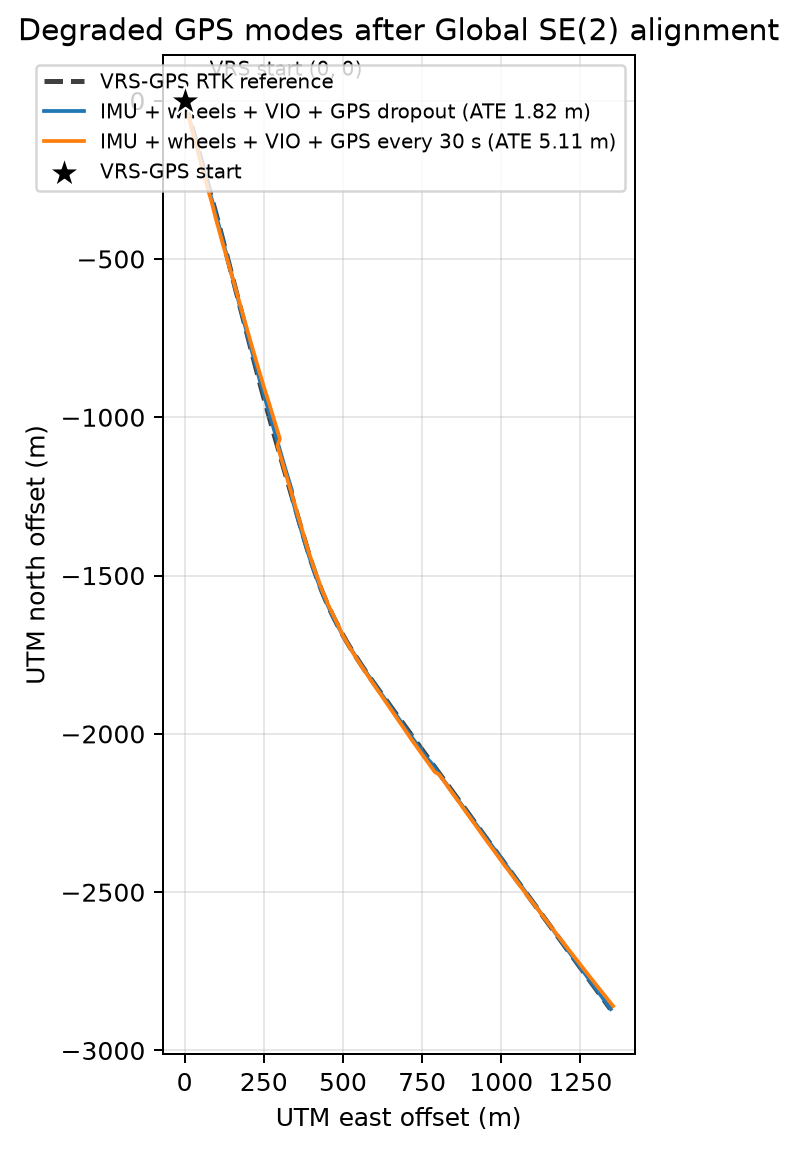
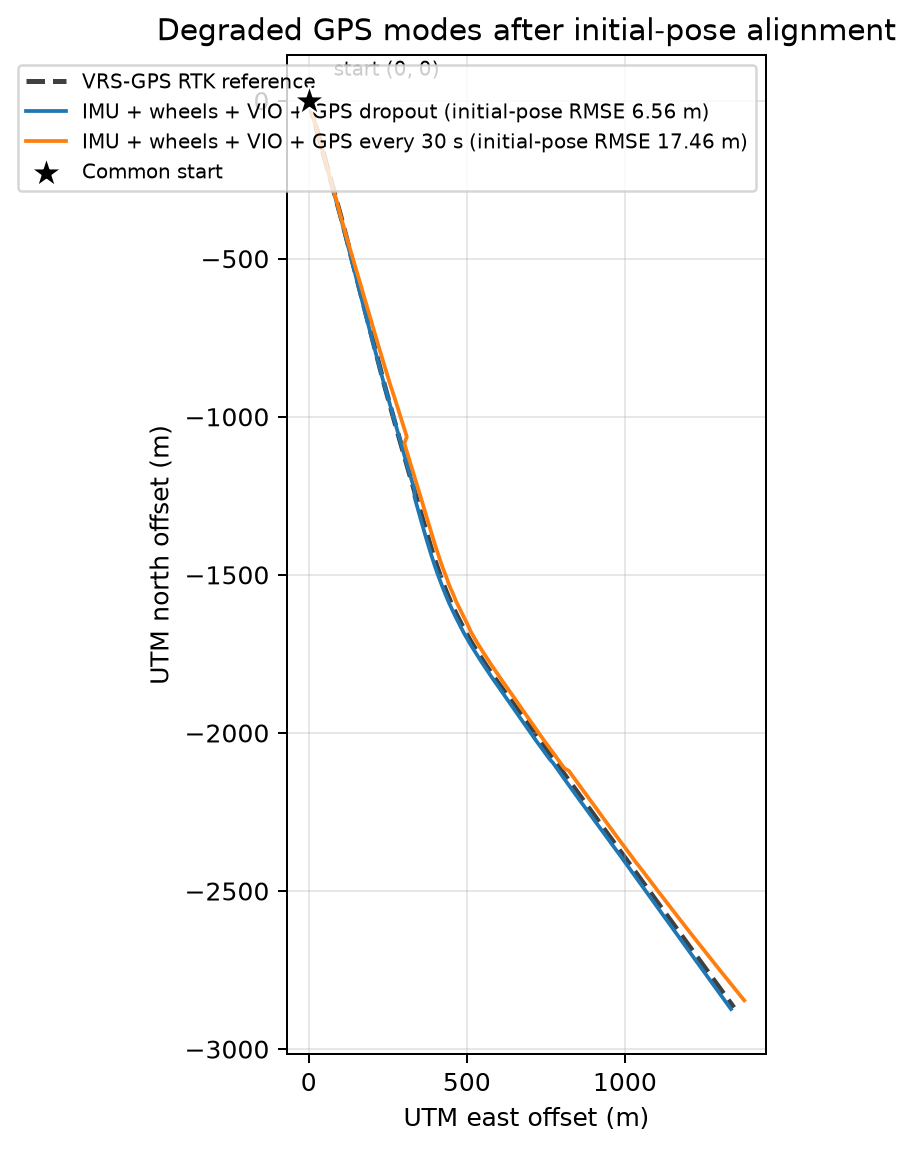
Show accumulated drift in trajectory plots

diff --git a/src/evaluation/visualization.py b/src/evaluation/visualization.py
@@ -82,14 +82,14 @@ def _save_trajectory_comparison(
         if name not in evaluations:
             continue
         result = evaluations[name]
-        estimate = result.aligned_xy_m - origin
+        estimate = result.start_aligned_xy_m - origin
         axis.plot(
             estimate[:, 0],
             estimate[:, 1],
             linewidth=1.5,
             label=(
                 f"{DISPLAY_NAMES.get(name, name)} "
-                f"(ATE {result.rmse_m:.2f} m)"
+                f"(initial-pose RMSE {result.start_rmse_m:.2f} m)"
             ),
         )
     axis.scatter(
@@ -101,10 +101,10 @@ def _save_trajectory_comparison(
         edgecolor="white",
         linewidth=0.9,
         zorder=10,
-        label="VRS-GPS start",
+        label="Common start",
     )
     axis.annotate(
-        "VRS start (0, 0)",
+        "start (0, 0)",
         (0.0, 0.0),
         xytext=(10, 10),
         textcoords="offset points",
@@ -174,19 +174,19 @@ def save_comparison_plots(
         evaluations,
         ("gps",),
         output_directory / "trajectory_gps_reference.png",
-        "GPS reference vs VRS-GPS after Global SE(2) alignment",
+        "GPS reference vs VRS-GPS after initial-pose alignment",
     )
     _save_trajectory_comparison(
         evaluations,
         ("vio",),
         output_directory / "trajectory_vio.png",
-        "GPS-denied VIO vs VRS-GPS after Global SE(2) alignment",
+        "GPS-denied VIO vs VRS-GPS after initial-pose alignment",
     )
     _save_trajectory_comparison(
         evaluations,
         ("gps_dropout", "gps_sparse"),
         output_directory / "trajectory_degraded_gps.png",
-        "Degraded GPS modes after Global SE(2) alignment",
+        "Degraded GPS modes after initial-pose alignment",
     )
     _save_error_comparison(evaluations, output_directory / "error_over_time.png")
     _save_rmse_comparison(evaluations, output_directory / "rmse_comparison.png")

diff --git a/results/conclusions.md b/results/conclusions.md
@@ -8,16 +8,16 @@ ground truth. Primary metric — 2D ATE RMSE після rigid SE(2) alignment б
 scale fit. Initial-pose RMSE додатково показує накопичення помилки напряму.
 
 На trajectory графіках пунктир показує реальну VRS-GPS RTK reference
-траєкторію. Кольорова estimate траєкторія показана після Global SE(2) alignment,
-тобто після одного оптимального повороту та зміщення за всіма matched reference
-точками. Scale не змінюється. Саме для цього вирівнювання в легенді наведено
-`ATE`. Воно описує схожість форми траєкторії після offline суміщення і не є
-точністю online локалізації.
+траєкторію. Кольорова estimate траєкторія показана після initial-pose alignment:
+суміщаються лише стартова точка та початковий напрям за першим стабільним
+відрізком руху. Подальша reference траєкторія не використовується для
+підлаштування estimate, scale не змінюється. Тому графіки показують фактично
+накопичений drift, а в легенді наведено `Initial-pose RMSE`.
 
-Initial-pose RMSE є суворішим для оцінки accumulated drift: суміщаються лише
-стартова точка та початковий напрям, після чого траєкторія більше не
-підлаштовується під reference. Тому, наприклад, `urban35 VIO` має Global ATE
-4.63 м, але Initial-pose RMSE 60.37 м.
+Global SE(2) ATE у таблицях є додатковою оцінкою форми після offline повороту
+та зміщення за всією траєкторією. Наприклад, `urban35 VIO` має Global ATE
+4.63 м, але Initial-pose RMSE 60.37 м. Для оцінки автономного проходження
+маршруту більш показовими є initial-pose графік і Initial-pose RMSE.
 
 Порівнюються чотири конфігурації:
 

diff --git a/README.md b/README.md
@@ -167,16 +167,15 @@ gate.
 накопичений yaw drift.
 
 На trajectory графіках пунктирна VRS-GPS RTK лінія є реальною reference
-траєкторією. Кольорова лінія є оцінкою estimator після Global SE(2) alignment:
-до неї один раз застосовано поворот і зміщення, знайдені за всіма доступними
-reference точками. Масштаб траєкторії не змінюється. Тому число `ATE` у легенді
-відповідає видимій відстані між лініями. Це offline evaluation, а не поправка,
-доступна estimator під час руху.
+траєкторією. Кольорова лінія є оцінкою estimator після initial-pose alignment.
+Для estimate задаються лише спільна стартова точка та початковий напрям за
+першим стабільним відрізком руху. Подальша reference траєкторія не
+використовується для підлаштування estimate, а масштаб не змінюється. Тому
+графік показує накопичений position і yaw drift, а число в легенді є
+`Initial-pose RMSE`.
 
-Initial-pose alignment використовується в окремій колонці таблиць і на RMSE
-bar chart. Він суміщає тільки старт і початковий напрям, тому краще показує
-помилку, яка накопичується від старту без post-processing за всією reference
-траєкторією.
+Global SE(2) ATE залишається у таблицях і на RMSE bar chart як додаткова оцінка
+схожості форми після offline суміщення всієї траєкторії.
 
 ## Результати
 

diff --git a/docs/architecture.md b/docs/architecture.md
@@ -97,11 +97,12 @@ commercial GPS; незалежний VRS-GPS лишається ground truth.
 Global ATE застосовує один rigid SE(2) alignment без scale. Initial-pose view
 вирівнює спільну стартову точку й напрям.
 
-Trajectory screenshots використовують Global SE(2)-aligned estimates, тому
-відстань між кольоровою estimate та пунктирною VRS-GPS reference відповідає ATE
-у легенді. Це offline rigid alignment за всією траєкторією. Initial-pose RMSE
-наводиться окремо в таблицях і на RMSE comparison chart, щоб показати
-накопичений drift від старту.
+Trajectory screenshots використовують initial-pose-aligned estimates: reference
+задає лише початкову точку та напрям за першим стабільним відрізком. Подальший
+шлях не використовується для підлаштування estimate. Відстань між кольоровою
+estimate та пунктирною VRS-GPS reference показує accumulated drift, а легенда
+наводить Initial-pose RMSE. Global SE(2) ATE залишається окремою табличною
+метрикою форми траєкторії після offline alignment за всіма matched points.
 
 ## Межі реалізації
 
